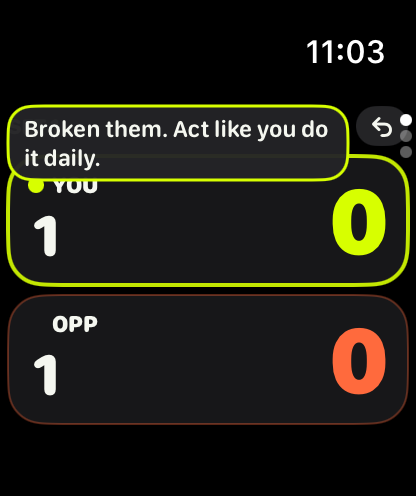
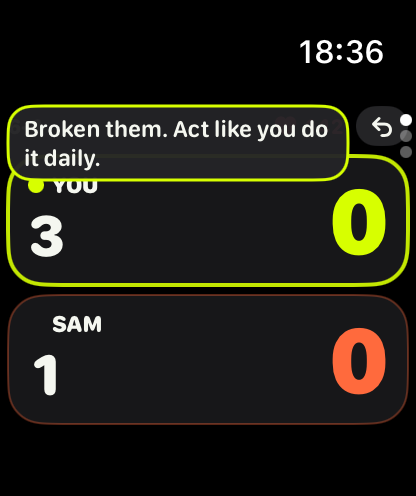
Use the new App Store screenshots
Real watch and iPhone screens from the app's demo mode: new watch shots, the
live scoreboard instead of the HTML mock-up, and an iPhone gallery.

Changed region(s): [[0.7188, 0.0605, 0.9375, 0.1512], [0.0625, 0.4234, 0.1562, 0.5141], [0.125, 0.6351, 0.25, 0.6653]]

diff --git a/index.html b/index.html
@@ -54,7 +54,7 @@
       </div>
       <div class="hero-visual">
         <div class="watch">
-          <img src="assets/img/watch-score.png" alt="Love-40 on Apple Watch: you lead 40–15 in the first set, one game all" width="416" height="496">
+          <img src="assets/img/watch-score.png" alt="Love-40 on Apple Watch: one set up, 3–1 in the second, 40–15 on serve, heart rate 142" width="416" height="496">
         </div>
         <div class="chip hr"><span class="dot" style="background:var(--heart)"></span>142 bpm</div>
         <div class="chip live"><span class="dot" style="background:var(--lime)"></span>Live on iPhone</div>
@@ -145,8 +145,8 @@
           </ul>
         </div>
         <div class="duo">
-          <div class="watch small"><img src="assets/img/watch-comment.png" alt="Watch comment after breaking serve: Broken them. Act like you do it daily." width="416" height="496" loading="lazy"></div>
-          <div class="watch small"><img src="assets/img/watch-change-ends.png" alt="Change ends banner on the watch: Lost serve. Blame the balls." width="416" height="496" loading="lazy"></div>
+          <div class="watch small"><img src="assets/img/watch-comment.png" alt="Watch comment straight after breaking serve: Broken them. Act like you do it daily." width="416" height="496" loading="lazy"></div>
+          <div class="watch small"><img src="assets/img/watch-summary.png" alt="Match summary on the watch: You win 6-4 3-6 7-6 against Sam Carter, 1 hour 39, 717 kcal" width="416" height="496" loading="lazy"></div>
         </div>
       </div>
 
@@ -197,36 +197,30 @@
             <li>Prefer to save battery? Turn it off in Defaults</li>
           </ul>
         </div>
-        <div class="phone" aria-label="Illustration of the live scoreboard on iPhone">
-          <div class="screen">
-            <div class="sb">
-              <div class="sb-top"><span class="live-tag"><i></i>LIVE</span><span class="status">SET POINT</span></div>
-              <div class="sb-row"><span class="serve" style="background:var(--lime)"></span><span class="who lime">YOU</span><span class="sets"><span>6</span><span>5</span></span><span class="pts" style="background:var(--lime)">40</span></div>
-              <div class="sb-row"><span class="serve"></span><span class="who clay">SAM</span><span class="sets"><span class="dim">4</span><span>3</span></span><span class="pts" style="background:var(--clay)">30</span></div>
-              <p class="sb-meta">vs Sam · Best of 3 · Clay, outdoors</p>
-            </div>
-            <div class="tiles">
-              <div class="tile"><b>58:12</b><span>TIME</span></div>
-              <div class="tile"><b style="color:var(--heart)">148</b><span>BPM</span></div>
-              <div class="tile"><b class="clay">512</b><span>KCAL</span></div>
-              <div class="tile"><b class="lime">6.4k</b><span>STEPS</span></div>
-            </div>
-            <div class="spark">
-              <span>Momentum</span>
-              <svg viewBox="0 0 200 56" preserveAspectRatio="none" aria-hidden="true">
-                <line x1="0" y1="28" x2="200" y2="28" stroke="#2a2e27" stroke-width="1"/>
-                <polyline fill="none" stroke="#d7ff00" stroke-width="2.5" stroke-linejoin="round" stroke-linecap="round"
-                  points="0,28 12,24 24,30 36,34 48,38 60,32 72,28 84,22 96,26 108,18 120,20 132,14 144,18 156,12 168,10 180,14 192,8 200,6"/>
-              </svg>
-            </div>
-          </div>
-        </div>
+        <div class="device"><img src="assets/img/phone-live.jpg" alt="Live scoreboard on iPhone: you lead Sam Carter 6-4, 3-1, 40-15, with time, heart rate, calories, steps and a momentum chart" width="660" height="1434" loading="lazy"></div>
+      </div>
+    </div>
+  </section>
+
+  <!-- iPhone gallery -->
+  <section class="alt" aria-labelledby="iphone-title">
+    <div class="wrap">
+      <div class="section-head">
+        <span class="eyebrow">On your iPhone</span>
+        <h2 id="iphone-title">Every match, worked out for you.</h2>
+        <p>Finished matches land on your iPhone automatically, with the numbers, the conditions and the bragging rights.</p>
+      </div>
+      <div class="gallery">
+        <figure><div class="device"><img src="assets/img/phone-matches.jpg" alt="Matches list with the live match on top, an 11-3 record, 79% win rate and recent results" width="660" height="1434" loading="lazy"></div><figcaption><b>Your matches</b>Record, win rate and every result, with venue and weather.</figcaption></figure>
+        <figure><div class="device"><img src="assets/img/phone-detail.jpg" alt="Match detail: 6-4 3-6 7-6 win over Sam Carter with time, calories, heart rate, steps, distance and venue map" width="660" height="1434" loading="lazy"></div><figcaption><b>Match detail</b>Time, calories, heart rate, steps and where you played.</figcaption></figure>
+        <figure><div class="device"><img src="assets/img/phone-stats.jpg" alt="Stats tab: 11-3 record, 79% win rate, form guide and wins by month" width="660" height="1434" loading="lazy"></div><figcaption><b>Stats</b>Form, streaks and results by month, tennis and padel.</figcaption></figure>
+        <figure><div class="device"><img src="assets/img/phone-rival.jpg" alt="Head-to-head against Sam Carter: you lead 4-1, with sets, games, points and tie-breaks compared" width="660" height="1434" loading="lazy"></div><figcaption><b>Head to head</b>Know exactly where you stand against every rival.</figcaption></figure>
       </div>
     </div>
   </section>
 
   <!-- Privacy -->
-  <section class="alt" aria-labelledby="privacy-title">
+  <section aria-labelledby="privacy-title">
     <div class="wrap">
       <div class="section-head">
         <span class="eyebrow">Privacy</span>

diff --git a/assets/style.css b/assets/style.css
@@ -194,34 +194,25 @@ section.alt { background: var(--bg-alt); border-top: 1px solid var(--line); bord
 .mode q { display: block; margin-top: 10px; font-family: var(--font-display); font-weight: 700; font-size: 1.08rem; quotes: "“" "”"; }
 .mode p { color: var(--text-dim); font-size: .9rem; margin-top: 8px; }
 
-/* Phone live scoreboard, built in HTML */
-.phone {
-  width: 100%; max-width: 340px; margin: 0 auto; border-radius: 48px; padding: 14px;
-  background: #111; box-shadow: 0 40px 80px rgba(0,0,0,.6), inset 0 0 0 2px #3b3e38;
+/* iPhone screenshots in a simple frame (1320×2868 captures, served at 660 wide) */
+.device {
+  width: 100%; max-width: 340px; margin: 0 auto; padding: 10px; border-radius: 54px;
+  background: linear-gradient(145deg, #3a3d38, #121311 50%, #262824);
+  box-shadow: 0 40px 80px rgba(0,0,0,.6), inset 0 0 0 2px #4a4e46;
 }
-.phone .screen { background: #000; border-radius: 36px; padding: 52px 14px 22px; position: relative; overflow: hidden; }
-.phone .screen::before { content: ""; position: absolute; top: 12px; left: 50%; transform: translateX(-50%); width: 96px; height: 28px; background: #111; border-radius: 20px; }
-.sb { background: var(--surface); border-radius: 20px; padding: 14px; }
-.sb-top { display: flex; justify-content: space-between; align-items: center; margin-bottom: 10px; }
-.live-tag { display: flex; align-items: center; gap: 6px; color: var(--heart); font-family: var(--font-display); font-weight: 900; font-size: .72rem; letter-spacing: .1em; }
-.live-tag i { width: 8px; height: 8px; border-radius: 50%; background: var(--heart); animation: pulse 1.6s ease-in-out infinite; }
-@keyframes pulse { 50% { opacity: .3; } }
-@media (prefers-reduced-motion: reduce) { .live-tag i { animation: none; } html { scroll-behavior: auto; } }
-.status { background: var(--lime); color: var(--on-accent); font-family: var(--font-display); font-weight: 900; font-size: .68rem; letter-spacing: .08em; padding: 3px 8px; border-radius: 99px; }
-.sb-row { display: flex; align-items: center; gap: 10px; padding: 7px 0; font-family: var(--font-display); font-weight: 900; }
-.sb-row + .sb-row { border-top: 1px solid var(--surface-raised); }
-.sb-row .serve { width: 7px; height: 7px; border-radius: 50%; }
-.sb-row .who { width: 62px; font-size: .92rem; }
-.sb-row .sets { margin-left: auto; display: flex; gap: 12px; font-variant-numeric: tabular-nums; }
-.sb-row .pts { min-width: 46px; text-align: center; border-radius: 9px; padding: 2px 0; color: var(--on-accent); font-size: 1.25rem; }
-.sb-meta { text-align: center; color: var(--text-dim); font-size: .72rem; margin-top: 8px; }
-.tiles { display: grid; grid-template-columns: 1fr 1fr; gap: 8px; margin-top: 10px; }
-.tile { background: var(--surface); border-radius: 14px; padding: 10px; text-align: center; }
-.tile b { display: block; font-family: var(--font-display); font-weight: 900; font-size: 1.2rem; }
-.tile span { font-size: .62rem; letter-spacing: .08em; color: var(--text-dim); font-weight: 800; }
-.spark { background: var(--surface); border-radius: 14px; padding: 12px; margin-top: 10px; }
-.spark span { font-size: .7rem; color: var(--text-dim); font-weight: 700; }
-.spark svg { width: 100%; height: 56px; margin-top: 6px; }
+.device img { width: 100%; height: auto; border-radius: 45px; }
+.gallery { display: grid; grid-template-columns: repeat(4, 1fr); gap: 28px; }
+@media (max-width: 960px) { .gallery { grid-template-columns: repeat(2, 1fr); gap: 36px 20px; } }
+.gallery figure { margin: 0; }
+.gallery .device { padding: 7px; border-radius: 40px; }
+.gallery .device img { border-radius: 34px; }
+.gallery figcaption { margin-top: 18px; color: var(--text-dim); font-size: .95rem; text-align: center; }
+.gallery figcaption b { display: block; color: var(--text); font-family: var(--font-display); font-size: 1.05rem; margin-bottom: 2px; }
+@media (max-width: 520px) { .gallery .device { border-radius: 30px; padding: 5px; } .gallery .device img { border-radius: 26px; } .gallery figcaption { font-size: .85rem; } }
+@media (prefers-reduced-motion: reduce) { html { scroll-behavior: auto; } }
+
+/* Verdict pill on the excuse-check card */
+.status { background: var(--lime); color: var(--on-accent); font-family: var(--font-display); font-weight: 900; font-size: .68rem; letter-spacing: .08em; padding: 3px 8px; border-radius: 99px; white-space: nowrap; }
 
 /* Privacy band */
 .privacy-band { display: grid; grid-template-columns: repeat(4, 1fr); gap: 14px; }
